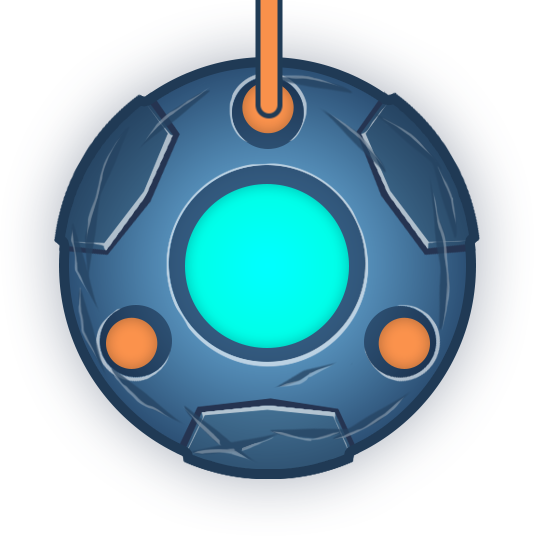
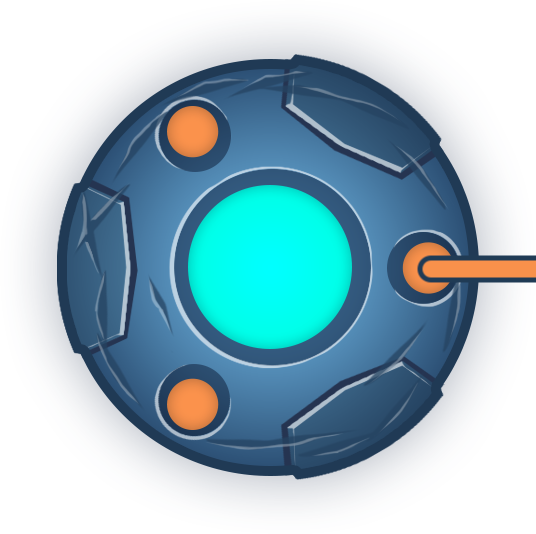
player: render angle

diff --git a/lib/game/player.dart b/lib/game/player.dart
@@ -1,5 +1,6 @@
 import 'dart:ui';
 
+import 'package:flame/anchor.dart';
 import 'package:flame/sprite.dart';
 import 'package:flutter/foundation.dart';
 import 'package:ufo_2d/admin/game_props.dart';
@@ -23,16 +24,41 @@ class HitTiles {
 class Player {
   final GetModel<PlayerModel> _getModel;
   final Sprite _sprite;
-  Player(this._getModel) : _sprite = Sprite('ufo.png');
+  final Anchor _anchor;
+  Player(this._getModel)
+      : _sprite = Sprite('ufo.png'),
+        _anchor = Anchor.center;
 
   void render(Canvas canvas) {
-    final wp = _getModel().worldPosition;
-    final w = GameProps.tileSize;
-    final c = GameProps.tileCenter;
-    final rect = Rect.fromLTWH(wp.x - c, wp.y - c, w, w);
-    _sprite.renderRect(canvas, rect);
+    final model = _getModel();
+    final wp = model.worldPosition;
+    final width = GameProps.tileSize;
+    final height = GameProps.tileSize;
+    final angle = model.angle;
 
     if (GameProps.debugHitPoints) _renderHitPoints(canvas);
+
+    _prepareCanvas(canvas, wp, angle, width, height);
+    _sprite.render(canvas, width: width, height: height);
+  }
+
+  // @see flame PositionComponent
+  void _prepareCanvas(
+    Canvas canvas,
+    WorldPosition wp,
+    double angle,
+    double width,
+    double height,
+  ) {
+    canvas.translate(wp.x, wp.y);
+    canvas.rotate(angle);
+    final double dx = -_anchor.relativePosition.dx * width;
+    final double dy = -_anchor.relativePosition.dy * height;
+    canvas.translate(dx, dy);
+
+    canvas.translate(width / 2, height / 2);
+    canvas.scale(1.0, -1.0);
+    canvas.translate(-width / 2, -height / 2);
   }
 
   void _renderHitPoints(Canvas canvas) {

diff --git a/lib/models/player_model.dart b/lib/models/player_model.dart
@@ -6,16 +6,26 @@ import 'package:ufo_2d/types.dart';
 class PlayerModel {
   final TilePosition tilePosition;
   final Vector velocity;
+  final double angle;
 
-  PlayerModel({@required this.tilePosition, this.velocity = Vector.zero});
+  PlayerModel({
+    @required this.tilePosition,
+    this.angle = 0,
+    this.velocity = Vector.zero,
+  });
 
   WorldPosition get worldPosition =>
       WorldPosition.fromTilePosition(tilePosition);
 
-  PlayerModel copyWith({TilePosition tilePosition, Vector velocity}) {
+  PlayerModel copyWith({
+    TilePosition tilePosition,
+    Vector velocity,
+    double angle,
+  }) {
     return PlayerModel(
       tilePosition: tilePosition ?? this.tilePosition,
       velocity: velocity ?? this.velocity,
+      angle: angle ?? this.angle,
     );
   }
 
@@ -24,6 +34,7 @@ class PlayerModel {
     return '''PlayerModel {
      tilePosition: $tilePosition
      velocity: $velocity
+     angle: $angle
    }''';
   }
 }

diff --git a/lib/game/game.dart b/lib/game/game.dart
@@ -90,10 +90,6 @@ class UfoGame extends Game {
         return player.copyWith(
             velocity: player.velocity
                 .translate(0, dt * GameProps.keyboardPlayerSpeedFactor));
-      case GameKey.Down:
-        return player.copyWith(
-            velocity: player.velocity
-                .translate(0, dt * (-GameProps.keyboardPlayerSpeedFactor)));
       case GameKey.Left:
         return player.copyWith(
             velocity: player.velocity
@@ -102,6 +98,8 @@ class UfoGame extends Game {
         return player.copyWith(
             velocity: player.velocity
                 .translate(dt * GameProps.keyboardPlayerSpeedFactor, 0));
+      case GameKey.Down:
+        return player;
       default:
         throw Exception('Unhandled key $key');
     }
